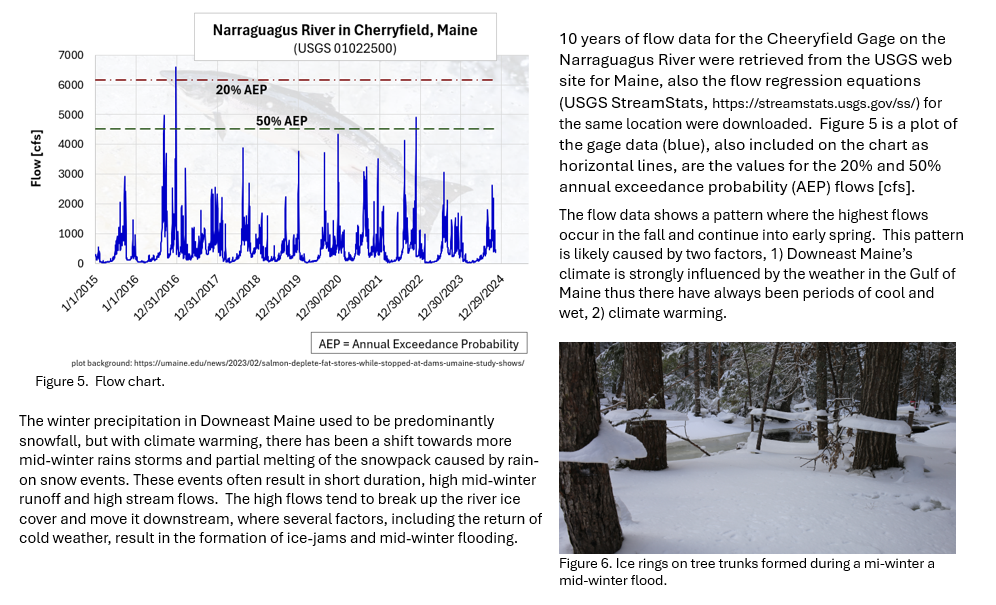
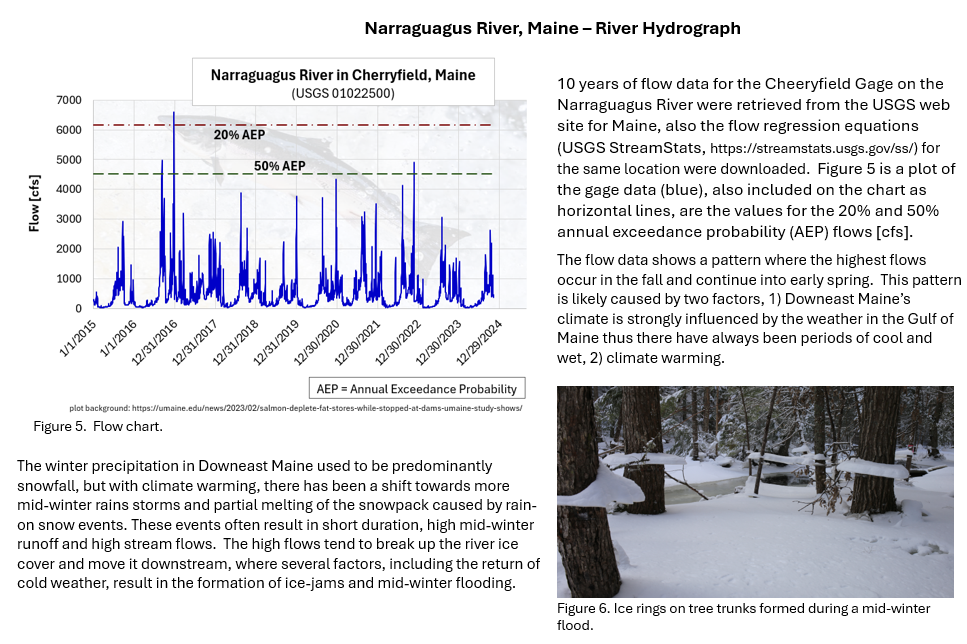
Added 5 page

diff --git a/HW4/index.html b/HW4/index.html
@@ -11,14 +11,14 @@
     <p>
         <h2>Part 1 - Middle Branch Pleasant River Watershed</h2>
         <img src="../HW4/HW4_P1A.png" alt="" style="margin-left: 50px; margin-bottom: 10px; width: 1400"><br>
-        <img src="../HW4/HW4_P1B.png" alt="" style="margin-left: 250px; margin-bottom: 10px; width: 1450">
+        <img src="../HW4/HW4_P1B.png" alt="" style="margin-left: 250px; margin-bottom: 10px; width: 1500">
     </p>
     <hr>
     <p>
         <h2>Part 2 - USGS Stream Gage:</h2>
         <img src="../HW4/HW4_P2A.png" alt="" style="margin-left: 250px; margin-bottom: 10px; width: 1500"><br>
-        <h4>&nbsp;&nbsp;&nbsp;&nbsp;Narraguagus River, Downeast Maine - Stream Hydrograph</h4>
-        <img src="../HW4/HW4_P2B.png" alt="" style="margin-left: 50px; margin-bottom: 10px; width: 1300"><br>
+        <img src="../HW4/HW4_P2B.png" alt="" style="margin-left: 50px; margin-bottom: 10px; width: 1400"><br>
+        <img src="../HW4/HW4_P2C.png" alt="" style="margin-left: 250px; margin-bottom: 10px; width: 1400">
     </p>
     <hr>
     
